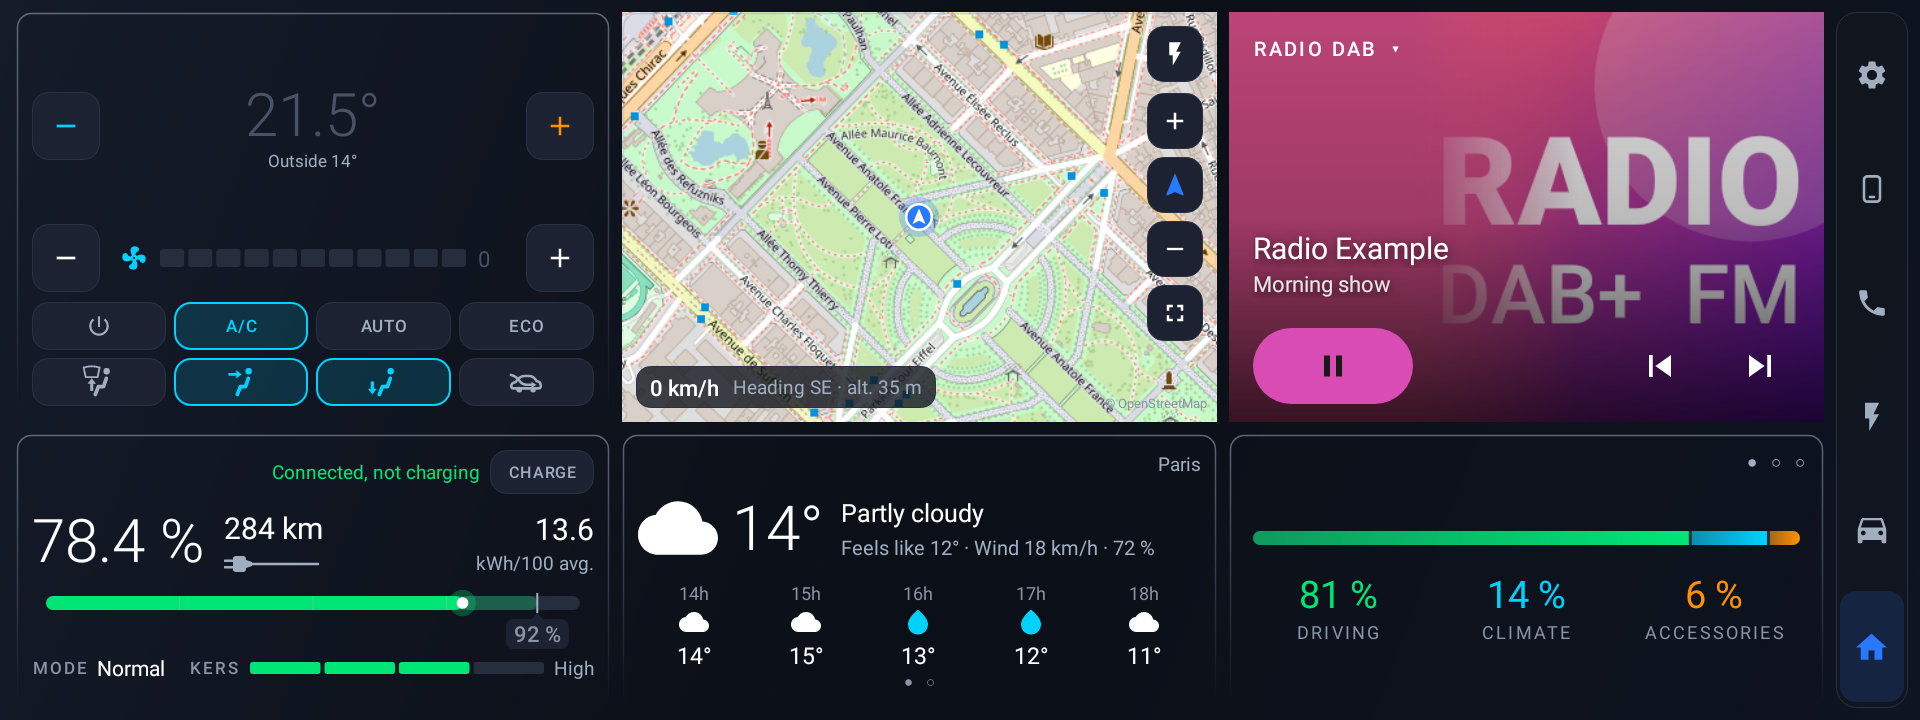
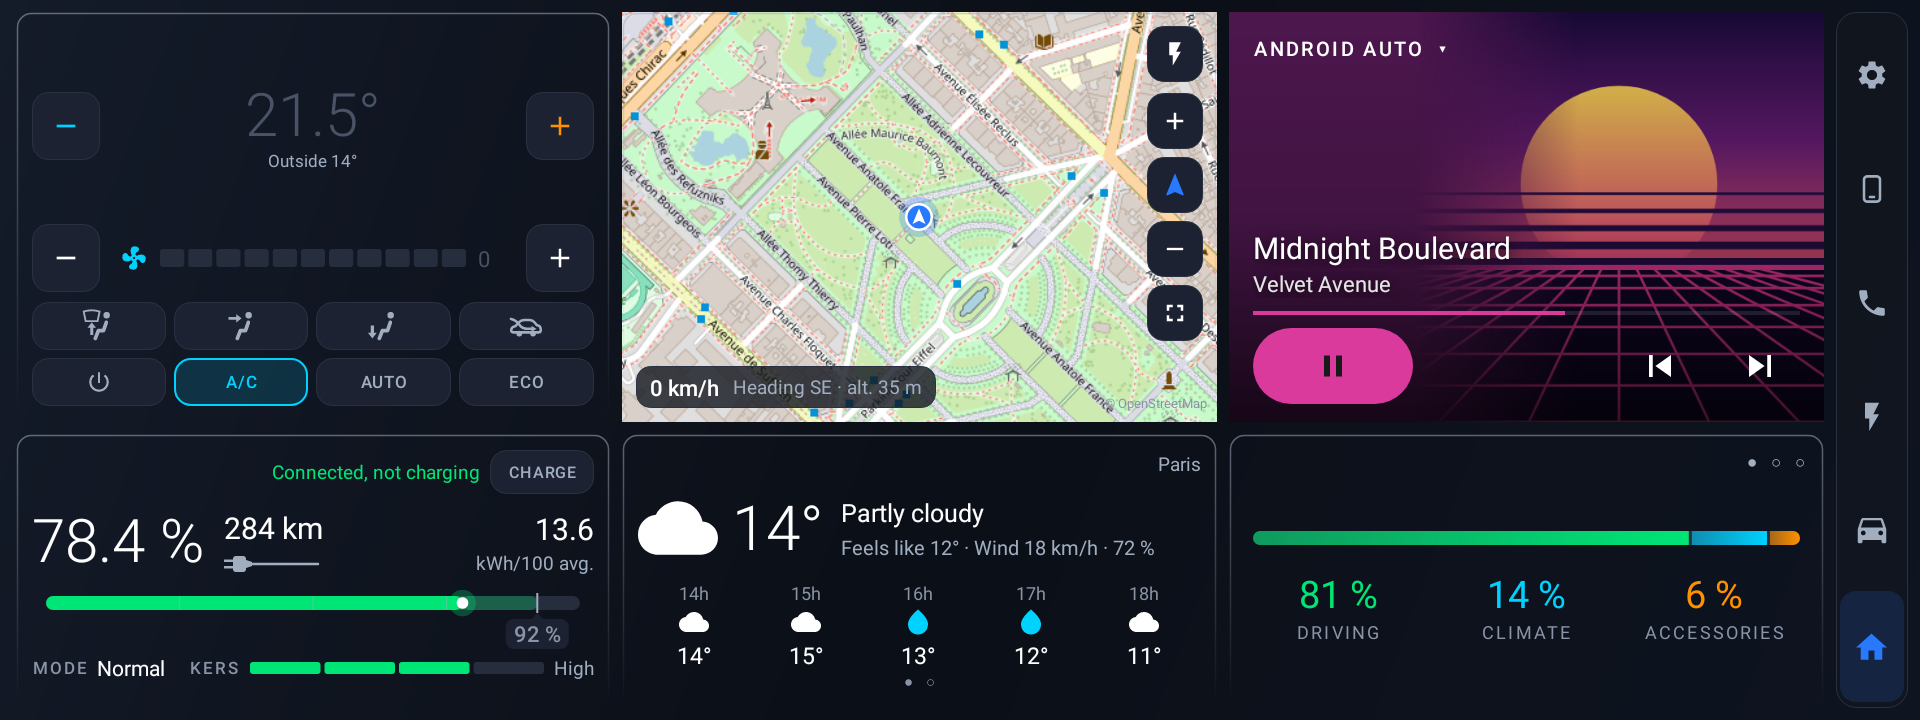
README: media player shown with Bluetooth and Android Auto (fictional albums), sources, automatic source and steering wheel described
Screenshots regenerated (Immersive player only); DiAuto links point to DiAuto MG4+.

diff --git a/app/src/testEmulator/java/app/mg4dash/ScreenshotTest.kt b/app/src/testEmulator/java/app/mg4dash/ScreenshotTest.kt
@@ -135,12 +135,6 @@ class ScreenshotTest {
         }
     }
 
-    /** Lecteur « Classique » (réglage Lecteur de l'accueil). */
-    @Test fun homeClassicPlayer() {
-        org.robolectric.RuntimeEnvironment.getApplication().getSharedPreferences("mg4launcher", android.content.Context.MODE_PRIVATE).edit().putInt("media_style", 1).commit()
-        shoot(MainActivity::class.java, "home_classic_player.png")
-    }
-
     /** Popup de mise à jour : toujours là après la reconstruction de l'accueil (passage clair / sombre). */
     @Test fun updatePromptSurvivesRecreate() {
         val f = app.mg4dash.ui.UpdatePrompt::class.java.getDeclaredField("pending").apply { isAccessible = true }
@@ -218,7 +212,7 @@ class ScreenshotTest {
         shoot(SettingsActivity::class.java, "settings_bottom_bar.png")
     }
 
-    @Test fun home() = shoot(MainActivity::class.java, "home.png")
+    @Test fun home() = shoot(MainActivity::class.java, "home.png", bluetooth("Midnight Boulevard", "Velvet Avenue", "Neon Skyline", neonSkyline()))
     @Test fun climate() = shoot(ClimateActivity::class.java, "climate.png")
     @Test fun vehicle() = shoot(app.mg4dash.pages.VehicleActivity::class.java, "vehicle.png")
     @Test fun energy() = shoot(app.mg4dash.pages.EnergyActivity::class.java, "energy.png")
@@ -226,7 +220,7 @@ class ScreenshotTest {
     @Test fun homeLight() {
         val ctx = org.robolectric.RuntimeEnvironment.getApplication()
         ctx.getSharedPreferences("mg4launcher", android.content.Context.MODE_PRIVATE).edit().putInt("theme_mode", 2).apply()
-        shoot(MainActivity::class.java, "home_light.png")
+        shoot(MainActivity::class.java, "home_light.png", androidAuto("Salt & Sunlight", "Coastline Club", "Golden Hours", goldenHours()))
     }
 
     @Test fun climateLight() {
@@ -264,7 +258,7 @@ class ScreenshotTest {
         val ctx = org.robolectric.RuntimeEnvironment.getApplication()
         ctx.getSharedPreferences("mg4launcher", android.content.Context.MODE_PRIVATE).edit()
             .putInt("theme_bg", 2).putInt("theme_accent", 4).apply()
-        shoot(MainActivity::class.java, "home_theme_charcoal_orange.png")
+        shoot(MainActivity::class.java, "home_theme_charcoal_orange.png", bluetooth("Polar Drift", "Aurora Drive", "Northern Lights", northernLights()))
     }
 
     @Test fun energyThemed() {
@@ -288,7 +282,7 @@ class ScreenshotTest {
             .putString("sc_100", "ha|cover.gate|Gate")
             .putString("sc_101", "ha|cover.garage_door|Garage")
             .apply()
-        shoot(MainActivity::class.java, "home_simple.png")
+        shoot(MainActivity::class.java, "home_simple.png", androidAuto("Polar Drift", "Aurora Drive", "Northern Lights", northernLights()))
     }
 
     @Test fun phone() = shoot(app.mg4dash.pages.PhoneActivity::class.java, "phone.png")
@@ -358,7 +352,7 @@ class ScreenshotTest {
     @Test fun homeRightHand() {
         org.robolectric.RuntimeEnvironment.getApplication().getSharedPreferences("mg4launcher", android.content.Context.MODE_PRIVATE).edit()
             .putInt("theme_mode", 1).putBoolean("force_rhd", true).commit()
-        shoot(MainActivity::class.java, "home_right_hand.png")
+        shoot(MainActivity::class.java, "home_right_hand.png", androidAuto("Midnight Boulevard", "Velvet Avenue", "Neon Skyline", neonSkyline()))
     }
 
     @Test fun homeMapRightHand() {
@@ -447,7 +441,7 @@ class ScreenshotTest {
     @Test fun homeHeatedSeats() {
         org.robolectric.RuntimeEnvironment.getApplication().getSharedPreferences("mg4launcher", android.content.Context.MODE_PRIVATE).edit()
             .putInt("heated_seats", 1).putBoolean("vertical_dock", true).apply()
-        shoot(MainActivity::class.java, "home_heated_seats.png")
+        shoot(MainActivity::class.java, "home_heated_seats.png", bluetooth("Salt & Sunlight", "Coastline Club", "Golden Hours", goldenHours()))
     }
 
     @Test fun homeSimpleHeatedSeats() {
@@ -717,13 +711,85 @@ class ScreenshotTest {
         File(File("build/screenshots").apply { mkdirs() }, name).outputStream().use { bmp.compress(Bitmap.CompressFormat.PNG, 100, it) }
     }
 
-    private fun <T : Activity> shoot(cls: Class<T>, name: String) {
+    private fun <T : Activity> shoot(cls: Class<T>, name: String, media: app.mg4dash.media.MediaHub.NowPlaying? = null) {
         // Captures en mode sombre, sauf si le test a choisi un autre mode
         val sp = org.robolectric.RuntimeEnvironment.getApplication().getSharedPreferences("mg4launcher", android.content.Context.MODE_PRIVATE)
         if (!sp.contains("theme_mode")) sp.edit().putInt("theme_mode", 1).commit()
         val activity = Robolectric.buildActivity(cls).setup().get()
         repeat(5) { shadowOf(Looper.getMainLooper()).idleFor(200, TimeUnit.MILLISECONDS) }
+        if (media != null) {
+            val f = app.mg4dash.media.MediaHub::class.java.getDeclaredField("_now").apply { isAccessible = true }
+            @Suppress("UNCHECKED_CAST")
+            (f.get(app.mg4dash.media.MediaHub) as kotlinx.coroutines.flow.MutableStateFlow<app.mg4dash.media.MediaHub.NowPlaying>).value = media
+            repeat(3) { shadowOf(Looper.getMainLooper()).idleFor(200, TimeUnit.MILLISECONDS) }
+        }
         save(activity.window.decorView, name)
+    }
+
+    // ── Musique d'exemple pour les captures du README : albums et artistes fictifs, pochettes dessinées ──
+
+    private fun bluetooth(title: String, artist: String, album: String, art: Bitmap) = app.mg4dash.media.MediaHub.NowPlaying(
+        true, "com.android.bluetooth", "BLUETOOTH", title, artist, album, art, true, durationMs = 214_000, positionMs = 83_000)
+
+    private fun androidAuto(title: String, artist: String, album: String, art: Bitmap) = app.mg4dash.media.MediaHub.NowPlaying(
+        true, "com.allgo.remoteui.mediabrowserservice", "ANDROID AUTO", title, artist, album, art, true,
+        durationMs = 247_000, positionMs = 141_000, androidAuto = true)
+
+    private fun cover(draw: (Canvas, android.graphics.Paint, Float) -> Unit): Bitmap {
+        val size = 480f
+        val bmp = Bitmap.createBitmap(size.toInt(), size.toInt(), Bitmap.Config.ARGB_8888)
+        draw(Canvas(bmp), android.graphics.Paint(android.graphics.Paint.ANTI_ALIAS_FLAG), size)
+        return bmp
+    }
+
+    /** « Neon Skyline » : soleil rayé sur un ciel violet et une grille rose. */
+    private fun neonSkyline() = cover { c, p, n ->
+        p.shader = android.graphics.LinearGradient(0f, 0f, 0f, n * 0.62f, intArrayOf(0xFF1A0B3D.toInt(), 0xFF6B1E7A.toInt(), 0xFFF0567A.toInt()), null, android.graphics.Shader.TileMode.CLAMP)
+        c.drawRect(0f, 0f, n, n * 0.62f, p)
+        p.shader = android.graphics.LinearGradient(0f, n * 0.2f, 0f, n * 0.62f, 0xFFFFD25A.toInt(), 0xFFFF4F8B.toInt(), android.graphics.Shader.TileMode.CLAMP)
+        c.drawCircle(n / 2, n * 0.42f, n * 0.24f, p)
+        p.shader = null; p.color = 0xFF2A0F4A.toInt()
+        for (i in 0 until 5) c.drawRect(0f, n * (0.44f + i * 0.04f), n, n * (0.44f + i * 0.04f) + 3f + i * 2f, p)
+        p.color = 0xFF14082E.toInt(); c.drawRect(0f, n * 0.62f, n, n, p)
+        p.color = 0xFFFF3EA5.toInt(); p.strokeWidth = 3f
+        for (i in 0..8) { val y = n * 0.62f + (n * 0.38f) * (i * i) / 64f; c.drawLine(0f, y, n, y, p) }
+        for (i in -8..8) c.drawLine(n / 2 + i * n * 0.04f, n * 0.62f, n / 2 + i * n * 0.22f, n, p)
+    }
+
+    /** « Golden Hours » : soleil couchant sur une mer turquoise, un palmier. */
+    private fun goldenHours() = cover { c, p, n ->
+        p.shader = android.graphics.LinearGradient(0f, 0f, 0f, n * 0.6f, intArrayOf(0xFFFFB347.toInt(), 0xFFFF7E5F.toInt(), 0xFFE0567A.toInt()), null, android.graphics.Shader.TileMode.CLAMP)
+        c.drawRect(0f, 0f, n, n * 0.6f, p)
+        p.shader = null; p.color = 0xFFFFF1C1.toInt(); c.drawCircle(n * 0.62f, n * 0.5f, n * 0.17f, p)
+        p.shader = android.graphics.LinearGradient(0f, n * 0.6f, 0f, n, 0xFF1F9EA8.toInt(), 0xFF0B4F6C.toInt(), android.graphics.Shader.TileMode.CLAMP)
+        c.drawRect(0f, n * 0.6f, n, n, p)
+        p.shader = null; p.color = 0x66FFF1C1
+        for (i in 0 until 7) { val w = n * (0.30f - i * 0.035f); val y = n * (0.64f + i * 0.045f); c.drawRect(n * 0.62f - w / 2, y, n * 0.62f + w / 2, y + 5f, p) }
+        p.color = 0xFF3B1F2B.toInt()
+        c.drawPath(android.graphics.Path().apply { moveTo(n * 0.16f, n); quadTo(n * 0.2f, n * 0.62f, n * 0.27f, n * 0.36f); lineTo(n * 0.29f, n * 0.37f); quadTo(n * 0.23f, n * 0.63f, n * 0.2f, n); close() }, p)
+        for (a in listOf(-160f, -125f, -60f, -25f, 15f)) {
+            val r = Math.toRadians(a.toDouble())
+            val ex = n * 0.28f + (Math.cos(r) * n * 0.2f).toFloat(); val ey = n * 0.36f + (Math.sin(r) * n * 0.1f).toFloat() + n * 0.05f
+            c.drawPath(android.graphics.Path().apply { moveTo(n * 0.28f, n * 0.36f); quadTo((n * 0.28f + ex) / 2, ey - n * 0.09f, ex, ey); quadTo((n * 0.28f + ex) / 2, ey - n * 0.05f, n * 0.28f, n * 0.37f); close() }, p)
+        }
+    }
+
+    /** « Northern Lights » : aurore verte sur des montagnes et un ciel étoilé. */
+    private fun northernLights() = cover { c, p, n ->
+        p.shader = android.graphics.LinearGradient(0f, 0f, 0f, n, 0xFF050B24.toInt(), 0xFF0E2A4A.toInt(), android.graphics.Shader.TileMode.CLAMP)
+        c.drawRect(0f, 0f, n, n, p)
+        p.shader = null; p.color = 0xCCFFFFFF.toInt()
+        val rnd = java.util.Random(7)
+        repeat(60) { c.drawCircle(rnd.nextFloat() * n, rnd.nextFloat() * n * 0.6f, 1f + rnd.nextFloat() * 1.8f, p) }
+        listOf(0x9938F2A0.toInt() to 0.30f, 0x7722D3C5.toInt() to 0.40f, 0x55A46BFF.toInt() to 0.22f).forEach { (col, y) ->
+            p.shader = android.graphics.LinearGradient(0f, n * (y - 0.12f), 0f, n * (y + 0.12f), intArrayOf(0x00000000, col, 0x00000000), null, android.graphics.Shader.TileMode.CLAMP)
+            c.drawPath(android.graphics.Path().apply {
+                moveTo(0f, n * (y + 0.1f)); cubicTo(n * 0.3f, n * (y - 0.2f), n * 0.6f, n * (y + 0.25f), n, n * (y - 0.05f))
+                lineTo(n, n * (y + 0.12f)); cubicTo(n * 0.6f, n * (y + 0.35f), n * 0.3f, n * (y - 0.05f), 0f, n * (y + 0.22f)); close()
+            }, p)
+        }
+        p.shader = null; p.color = 0xFF07101F.toInt()
+        c.drawPath(android.graphics.Path().apply { moveTo(0f, n); lineTo(0f, n * 0.74f); lineTo(n * 0.22f, n * 0.58f); lineTo(n * 0.38f, n * 0.72f); lineTo(n * 0.58f, n * 0.52f); lineTo(n * 0.8f, n * 0.7f); lineTo(n, n * 0.6f); lineTo(n, n); close() }, p)
     }
 
     private fun save(root: View, name: String) {

diff --git a/README.md b/README.md
@@ -12,7 +12,7 @@ Current version: **1.6.0** ([releases](https://github.com/Skittle6938/MG4Dash/re
 
 ## Home screen
 
-![Home screen, default settings](docs/screenshots/home.png?v=19)
+![Home screen, default settings](docs/screenshots/home.png?v=20)
 
 The default home screen (*Full* layout, vertical bar on the left). From left to right:
 
@@ -30,13 +30,23 @@ The default home screen (*Full* layout, vertical bar on the left). From left to 
 
 **Heated seats and steering wheel**: on equipped cars, a row of buttons sits above the temperature (driver seat, steering wheel, passenger seat). Settings › Vehicle › Heated seats and steering wheel: Auto (detected), Yes or No.
 
-![Heated seats and steering wheel](docs/screenshots/home_heated_seats.png?v=19)
+![Heated seats and steering wheel](docs/screenshots/home_heated_seats.png?v=20)
 
 ## Media player
 
-The media card follows the car's active audio source (DAB / FM radio, Bluetooth, USB, Android Auto, CarPlay). Swipe it up / down for the next source, left / right for the next / previous track (like the steering wheel buttons), tap the source name (« Radio DAB ▾ ») for the source menu, tap the picture to open the source's app, long press play / pause for the [Sound](#sound) page.
+The media card follows the car's active audio source (DAB / FM radio, Bluetooth, USB, Android Auto, CarPlay) and other apps playing music on the head unit. Swipe it up / down for the next source, left / right for the next / previous track (like the steering wheel buttons), tap the source name (« Radio DAB ▾ ») for the source menu, tap the picture to open the source's app, long press play / pause for the [Sound](#sound) page.
 
 The player (Full, Map and Simple layouts) works like the Android Auto player: the album art or station image covers the card (black bars above and below are cropped as long as the image still fits the card's width, and its left edge colour extends it with a fade), title and artist over it, play button and progress bar in the image's main colour. Without an image, a white or black background following the theme.
+
+| Bluetooth | Android Auto |
+|---|---|
+| ![Bluetooth player](docs/screenshots/home_theme_charcoal_orange.png?v=20) | ![Android Auto player](docs/screenshots/home_light.png?v=20) |
+
+**Sources**: the source menu only lists the sources available right now: Bluetooth, USB and Android Auto / CarPlay appear when a phone or a USB key is connected, and other apps playing music (for example [DiAuto MG4+](https://github.com/Skittle6938/DiAuto-MG4) or SimpMusic) are offered too. Switching to an app sends it play, leaving it pauses it, and when an app starts playing the other apps are paused. DAB or FM is chosen in the radio app, as on the stock home screen.
+
+**Audio source at startup** (Settings › Home › Audio source): *Automatic* (default) remembers the sources you pick and goes back by itself to the last one still available, as soon as it returns (phone reconnected, USB key plugged in…); a source that disappears is replaced after 1 s. You can also leave it to the car (*Same as the car*) or always start on Radio, Bluetooth, USB or CarPlay / Android Auto. CarPlay is never picked automatically. *Playback at startup*: as when the car was switched off (default), always paused or always playing.
+
+**Steering wheel**: left / right change track on the source shown, apps included. The car does not know the apps (DiAuto, SimpMusic…) and still hands these buttons to its last own source, often the radio, which briefly takes the sound: MG4Dash puts the radio back on its station and returns to the app at once.
 
 ## Energy card
 
@@ -46,7 +56,7 @@ Settings › Home › *Live power in the energy card* replaces the drive mode an
 
 | Live power, plugged in | Live power with voltage and current, driving |
 |---|---|
-| ![Live power in the energy card](docs/screenshots/home_energy_card_power.png?v=19) | ![Live power with voltage and current](docs/screenshots/home_energy_card_power_driving.png?v=19) |
+| ![Live power in the energy card](docs/screenshots/home_energy_card_power.png?v=20) | ![Live power with voltage and current](docs/screenshots/home_energy_card_power_driving.png?v=20) |
 
 ## Bottom-right widget
 
@@ -58,8 +68,8 @@ Swipe or tap it to switch between its pages:
 
 | | |
 |---|---|
-| ![Live power](docs/screenshots/home_widget_power.png?v=19) | ![Phone favourites](docs/screenshots/home_widget_phone.png?v=19) |
-| ![Full-throttle special](docs/screenshots/boost_rocket_on.png?v=19) | |
+| ![Live power](docs/screenshots/home_widget_power.png?v=20) | ![Phone favourites](docs/screenshots/home_widget_phone.png?v=20) |
+| ![Full-throttle special](docs/screenshots/boost_rocket_on.png?v=20) | |
 
 ## Map card
 
@@ -70,17 +80,17 @@ Swipe or tap it to switch between its pages:
 
 | Consumption | Shortcuts |
 |---|---|
-| ![Consumption](docs/screenshots/home_map_layout_consumption.png?v=19) | ![Shortcuts](docs/screenshots/home_map_layout_shortcuts.png?v=19) |
+| ![Consumption](docs/screenshots/home_map_layout_consumption.png?v=20) | ![Shortcuts](docs/screenshots/home_map_layout_shortcuts.png?v=20) |
 
 **Another app in the map card**: long press the map to show another installed app inside the card instead of the map, for example an EV route planner such as ABRP or a navigation app such as Waze. It runs live and can be touched; the card buttons fade out after 5 s and come back on a touch, and the full screen button enlarges the app (it stays full screen through day / night changes until you press Home or the button again). Pick "OpenStreetMap map" in the same list to go back. *The apps below are drawn for the example.*
 
 | | |
 |---|---|
-| ![EV route planner in the map card](docs/screenshots/home_map_app_planner.png?v=19) | ![Navigation app in the map card](docs/screenshots/home_map_app_guidance.png?v=19) |
+| ![EV route planner in the map card](docs/screenshots/home_map_app_planner.png?v=20) | ![Navigation app in the map card](docs/screenshots/home_map_app_guidance.png?v=20) |
 
-**Turn-by-turn**: with [DiAuto](https://github.com/merthankaraman/DiAuto-MG4) (or another Headunit Revived-based Android Auto app that broadcasts `com.andrerinas.headunitrevived.NAVIGATION_UPDATE`), the next manoeuvre is shown over the map: arrow, distance, street, time and distance left, arrival time. The stock Android Auto app does not receive this information.
+**Turn-by-turn**: with [DiAuto MG4+](https://github.com/Skittle6938/DiAuto-MG4) (or another Headunit Revived-based Android Auto app that broadcasts `com.andrerinas.headunitrevived.NAVIGATION_UPDATE`), the next manoeuvre is shown over the map: arrow, distance, street, time and distance left, arrival time. The stock Android Auto app does not receive this information.
 
-![Navigation banner](docs/screenshots/home_map_layout_nav.png?v=19)
+![Navigation banner](docs/screenshots/home_map_layout_nav.png?v=20)
 
 ## Other home layouts
 
@@ -88,10 +98,10 @@ Settings › Home › Home layout: **Full** (default), **Map** or **Simple**; ve
 
 | Map layout | Simple layout |
 |---|---|
-| ![Map layout](docs/screenshots/home_map_layout.png?v=19) | ![Simple layout](docs/screenshots/home_simple.png?v=19) |
+| ![Map layout](docs/screenshots/home_map_layout.png?v=20) | ![Simple layout](docs/screenshots/home_simple.png?v=20) |
 | Weather with date and time, climate, a stack (energy, trip energy, live power, phone; swipe to change, back to the battery when plugged in) above the media, and the map over the whole right column. | Fewer buttons and bigger text: climate, battery and media panels, two shortcuts and today's weather. Tap a panel to open its page. |
 | **Bottom dock** | **Right-hand drive** |
-| ![Bottom dock](docs/screenshots/home_bottom_bar.png?v=19) | ![Vertical bar on the right](docs/screenshots/home_right_hand.png?v=19) |
+| ![Bottom dock](docs/screenshots/home_bottom_bar.png?v=20) | ![Vertical bar on the right](docs/screenshots/home_right_hand.png?v=20) |
 | Vertical bar turned off: dock at the bottom with clock and date (long press the clock: clock or Wi-Fi settings). | On right-hand drive cars (detected), the vertical bar goes on the right, next to the driver. |
 
 ## Themes and day / night
@@ -103,12 +113,12 @@ Settings › Look: **Auto** (default, follows the car's lights), **Dark** or **L
 
 | Light mode | Charcoal background, orange buttons |
 |---|---|
-| ![Light mode](docs/screenshots/home_light.png?v=19) | ![Charcoal and orange](docs/screenshots/home_theme_charcoal_orange.png?v=19) |
+| ![Light mode](docs/screenshots/home_light.png?v=20) | ![Charcoal and orange](docs/screenshots/home_theme_charcoal_orange.png?v=20) |
 
 ## Pages
 
 ### Climate
-![Climate](docs/screenshots/climate.png?v=19)
+![Climate](docs/screenshots/climate.png?v=20)
 Temperature, fan speed, combinable air directions, AUTO, A/C, ECO, recirculation and front / rear defrost. On old firmwares (SWI68, SWI133, SWI165), MG4Dash comes back in front when the stock launcher opens its own climate screen (Settings › Vehicle, on by default).
 
 ### Keep climate on
@@ -121,26 +131,26 @@ A camp mode, off by default (Settings › Vehicle › *Keep climate on*), then a
 
 | | | |
 |---|---|---|
-| ![At a set time](docs/screenshots/climhold_menu_at_en.png?v=19) | ![Countdown](docs/screenshots/climhold_countdown_en.png?v=19) | ![Status screen](docs/screenshots/climhold_screen_en.png?v=19) |
+| ![At a set time](docs/screenshots/climhold_menu_at_en.png?v=20) | ![Countdown](docs/screenshots/climhold_countdown_en.png?v=20) | ![Status screen](docs/screenshots/climhold_screen_en.png?v=20) |
 
 ### Energy
-![Energy](docs/screenshots/energy.png?v=19)
+![Energy](docs/screenshots/energy.png?v=20)
 Charging (start / stop, charge limit where the car applies it, AC current, time left, input voltage and current, reason when the car stops charging, cable lock), scheduled charging, V2L (adapter state, stop threshold, start / stop), battery heating while driving, and consumption by period (driving, climate, accessories, energy recovered by braking, consumption curve).
 
 ### Vehicle
-![Vehicle](docs/screenshots/vehicle.png?v=19)
+![Vehicle](docs/screenshots/vehicle.png?v=20)
 Drive mode (with Eco, Snow and Custom where available), regeneration (level 6 is one-pedal driving), driver assistance, tyre pressures and temperatures, vehicle status, a shortcut to MG4 Control, and the **battery health estimate**: while driving, MG4Dash measures the energy taken from the battery and divides it by the drop in battery %; from a 15 % drop (added up over several trips) it gives a dated measurement of the usable capacity, averaged over 30 days and compared with a new battery of your model (51, 64 or 77 kWh). This is an estimate, not an official measurement.
 
 ### Sound
-![Sound](docs/screenshots/sound.png?v=19)
+![Sound](docs/screenshots/sound.png?v=20)
 Vehicle › *Sound*, or a long press on play / pause. Drag the dot on the MG4 seen from above to set the balance and fader (double tap or *Centre* to reset). 5-band equaliser with the car's presets (Classic, Jazz, Pop, Rock, Vocal) or your own curve, *Loudness* and *Flat*. A live spectrum of what is playing is shown behind the sliders for Bluetooth, USB and apps; the radio's sound does not go through Android, so the spectrum stays flat on the radio. These are the car's own settings, the same as the stock sound menu.
 
 ### Phone
-![Phone](docs/screenshots/phone.png?v=19)
+![Phone](docs/screenshots/phone.png?v=20)
 Recent calls, contacts with search and a keypad, from the phone connected over Bluetooth. Calls go through the hands-free account, like the stock phone app, whose in-call screen is kept.
 
 ### Startup
-![Startup animation](docs/screenshots/splash.png?v=19)
+![Startup animation](docs/screenshots/splash.png?v=20)
 While the head unit starts, a short MG4Dash animation replaces Android's "Phone is starting" screen; the home screen opens as soon as the system is ready.
 
 ## Settings
@@ -149,13 +159,13 @@ Five tabs along the top; the last one used opens next time. Each on / off option
 
 | Home | Look |
 |---|---|
-| ![Settings, Home](docs/screenshots/settings_en_tab0.png?v=19) | ![Settings, Look](docs/screenshots/settings_en_tab1.png?v=19) |
+| ![Settings, Home](docs/screenshots/settings_en_tab0.png?v=20) | ![Settings, Look](docs/screenshots/settings_en_tab1.png?v=20) |
 | **Vehicle** | **System** |
-| ![Settings, Vehicle](docs/screenshots/settings_en_tab2.png?v=19) | ![Settings, System](docs/screenshots/settings_en_tab4.png?v=19) |
+| ![Settings, Vehicle](docs/screenshots/settings_en_tab2.png?v=20) | ![Settings, System](docs/screenshots/settings_en_tab4.png?v=20) |
 
 | Tab | Options |
 |---|---|
-| Home | home layout (Full, Simple, Map), vertical bar, full screen (hides the SAIC side bar and banner), live power in the energy card, voltage and current under the power bar, map stack back to the battery when plugged in, map zoom and colours, hide the map buttons, shortcuts page, switch to the energy widget when offline |
+| Home | home layout (Full, Simple, Map), audio source and playback at startup, vertical bar, full screen (hides the SAIC side bar and banner), live power in the energy card, voltage and current under the power bar, map stack back to the battery when plugged in, map zoom and colours, hide the map buttons, shortcuts page, switch to the energy widget when offline |
 | Look | light / dark / auto, smooth light / dark switch, panel outline, background, button colour, full-throttle special |
 | Vehicle | units, tyre pressure unit, heated seats and steering wheel, Keep climate on, keep MG4Dash in front of the SAIC climate screen (old firmwares), usable battery capacity, battery model, MG4 XPower |
 | Connections | weather (fallback city or current position), Home Assistant (address, token, test) |
@@ -199,7 +209,7 @@ Features a firmware does not expose are hidden instead of failing (for example t
   - `ui/MediaStyle.kt`: media player presentation
   - `system/Projection.kt`: Android Auto / CarPlay session read from the AllGo remote UI service
   - `energy/EnergyLogger.kt`: read-only CSV recorder of battery power, consumption counters and equipment states
-  - `media/MediaHub.kt`: active player, chosen from the car's audio source like the stock launcher
+  - `media/MediaHub.kt`: active player and audio sources (the car's and other apps'), automatic source, steering wheel for apps
   - `map/NavRepo.kt`: turn-by-turn data broadcast by DiAuto / Headunit Revived
   - `shortcuts/Shortcuts.kt`: shortcut grid and Home Assistant REST calls
   - `weather/WeatherRepo.kt`: Open-Meteo weather
